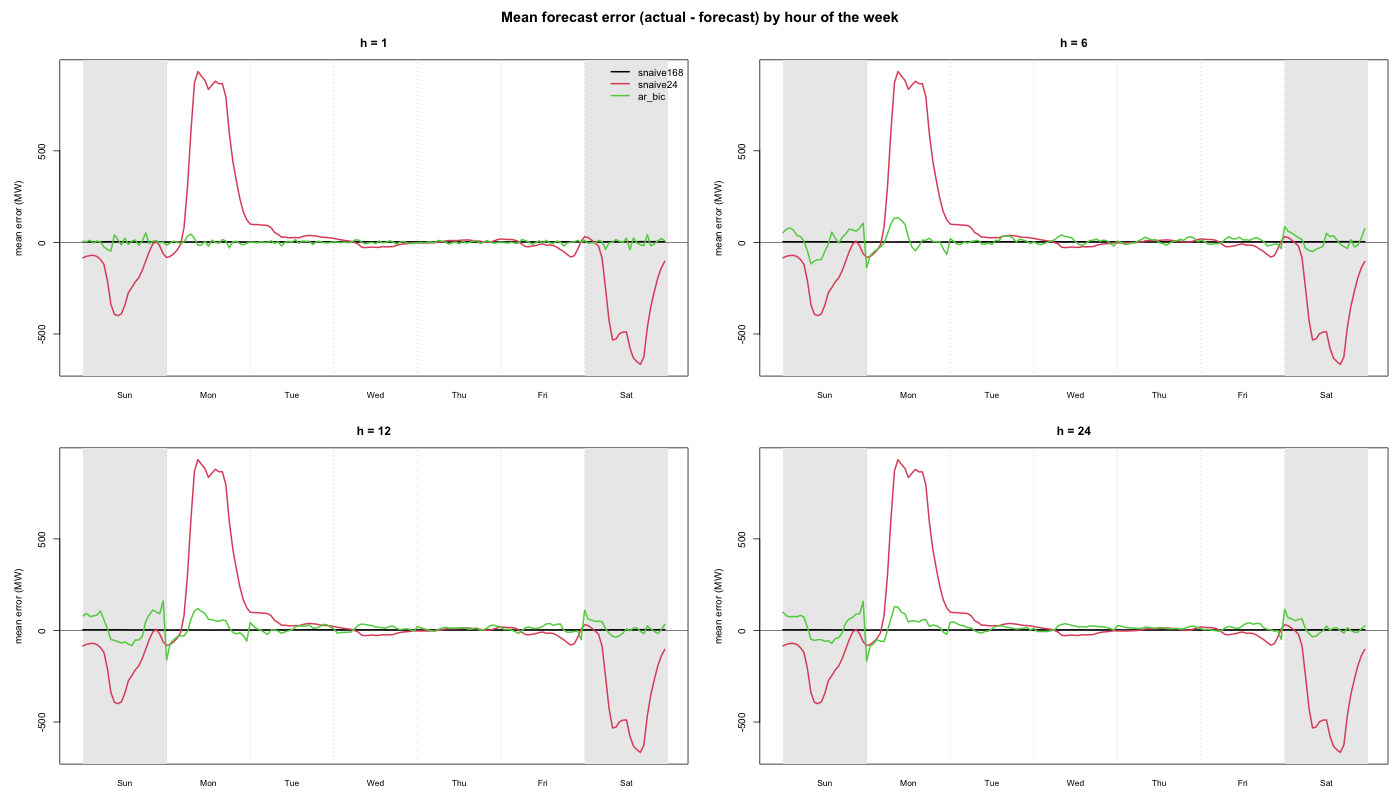
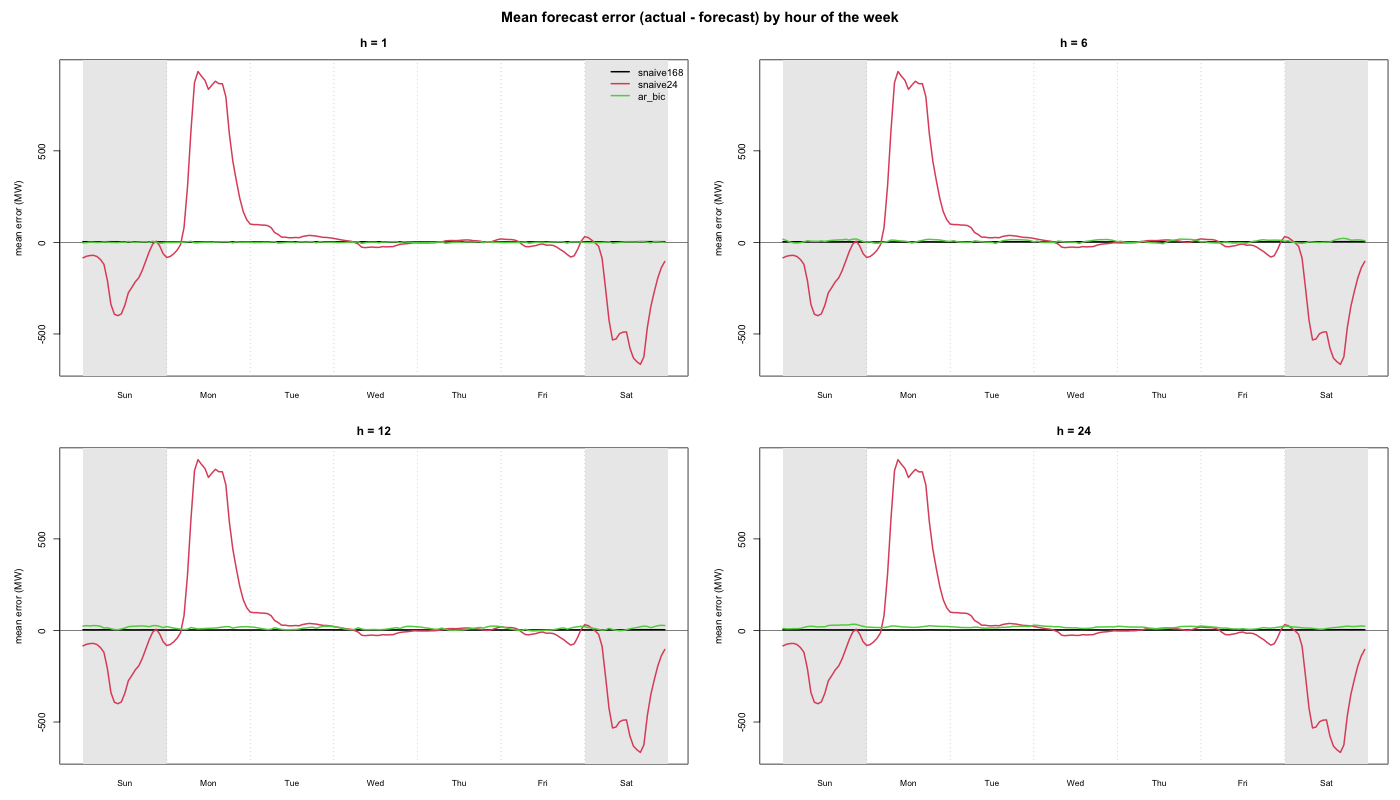
Update README.md: revise AR(p) model description and improve RMSE results with hour-day interactions

diff --git a/README.md b/README.md
@@ -72,7 +72,7 @@ their outputs are committed, so most people can start at step 3.
 | 2 | `aggregate_nea_hourly.R` | 55 raw NEA files → hourly × station in `data/interim/` | ~12 min |
 | 3 | `build_dataset.R` | Merges all four sources onto one hourly spine | ~3 min |
 | 4 | `build_features.R` | Imputes weather gaps, builds the model matrix | ~1 min |
-| 5 | `benchmarks.R` | Seasonal naive + AR(p) by BIC → `output/forecasts/benchmarks.csv.gz` | ~40 min |
+| 5 | `benchmarks.R` | Seasonal naive + AR(p) by BIC → `output/forecasts/benchmarks.csv.gz` | ~2.5 h |
 | 6 | `forecast.R` | Rolling-window engine — **not written yet** | — |
 | 7 | `evaluate.R` | RMSE/MAE/MAPE, Diebold-Mariano, combination — **not written yet** | — |
 
@@ -186,23 +186,25 @@ block).
 - **Seasonal naive**, ŷ<sub>t+h</sub> = y<sub>t+h−s</sub>, with a daily (s = 24)
   and a weekly (s = 168) season. Nothing is estimated.
 - **AR(p) by BIC**, direct: y<sub>t+h</sub> on y<sub>t</sub>, …, y<sub>t−p+1</sub>,
-  p ∈ {24, 48, …, 168} (1 day to 1 week), plus dummies for the **target** hour:
-  23 hour-of-day, 6 day-type (public holiday = Sunday) and the Covid regimes. The
+  p ∈ {24, 48, …, 168} (1 day to 1 week) re-selected at every refit, plus
+  dummies for the **target** hour: 23 hour-of-day, 6 day-type (public holiday =
+  Sunday), their 138 hour × day-type interactions, and the Covid regimes. The
   dummies make it strictly an ARX — not a demand-only benchmark.
 
 Out-of-sample RMSE (MW), 16 Jul 2018 – 30 Sep 2026:
 
 | h | snaive24 | snaive168 | AR(p) | EMA (reference) |
 |---|---|---|---|---|
-| 1 | 338 | 241 | **36** | 186 |
-| 6 | 338 | 241 | **126** | 186 |
-| 12 | 338 | 241 | **150** | 186 |
-| 24 | 338 | 241 | **155** | 186 |
+| 1 | 338 | 241 | **30** | 186 |
+| 6 | 338 | 241 | **89** | 186 |
+| 12 | 338 | 241 | **115** | 186 |
+| 24 | 338 | 241 | **130** | 186 |
 
-Known limits: BIC picks p = 168, the largest allowed, at every refit; and the AR
-errors still show a weekend/Monday pattern at h ≥ 6
-(`output/figures/error_by_hour_of_week.png`), because additive dummies give every
-day the same hourly shape. Public holidays roughly double its error.
+The interactions cut the AR's RMSE by 16–29% against hour and day-type dummies
+alone (DM significant at every h) and removed the weekend/Monday pattern from
+its errors (`output/figures/error_by_hour_of_week.png`). BIC then settles on a
+median p = 72 (range 24–168), so the lag limit no longer binds. A full run takes
+~2.5 hours.
 
 ## Status
 
